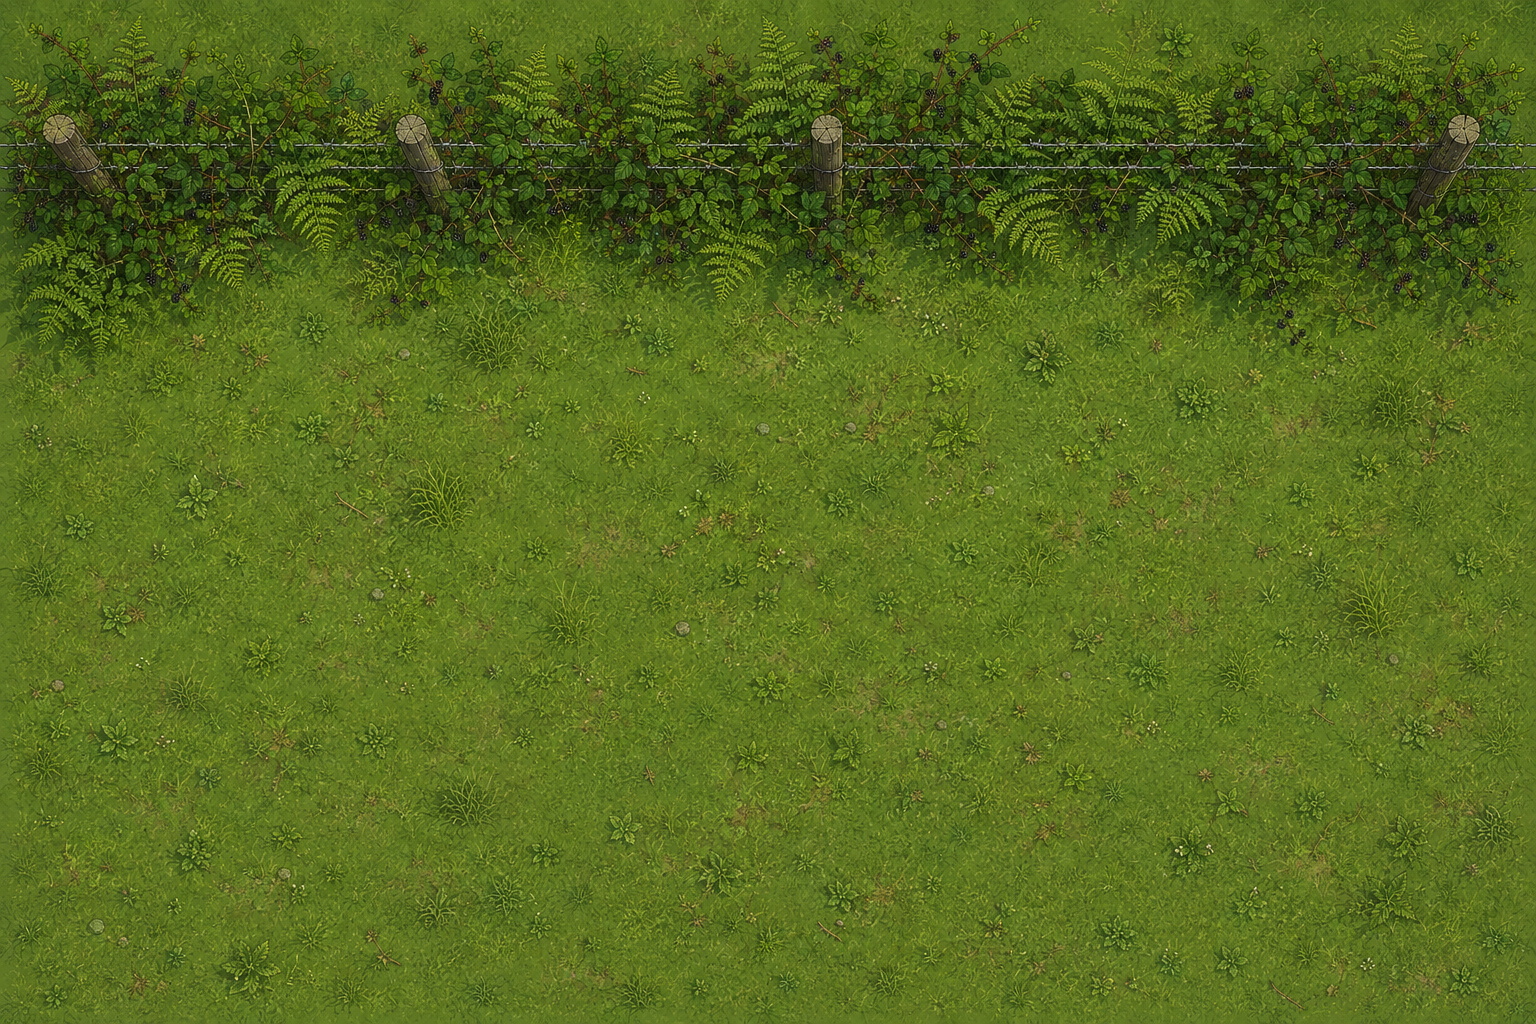
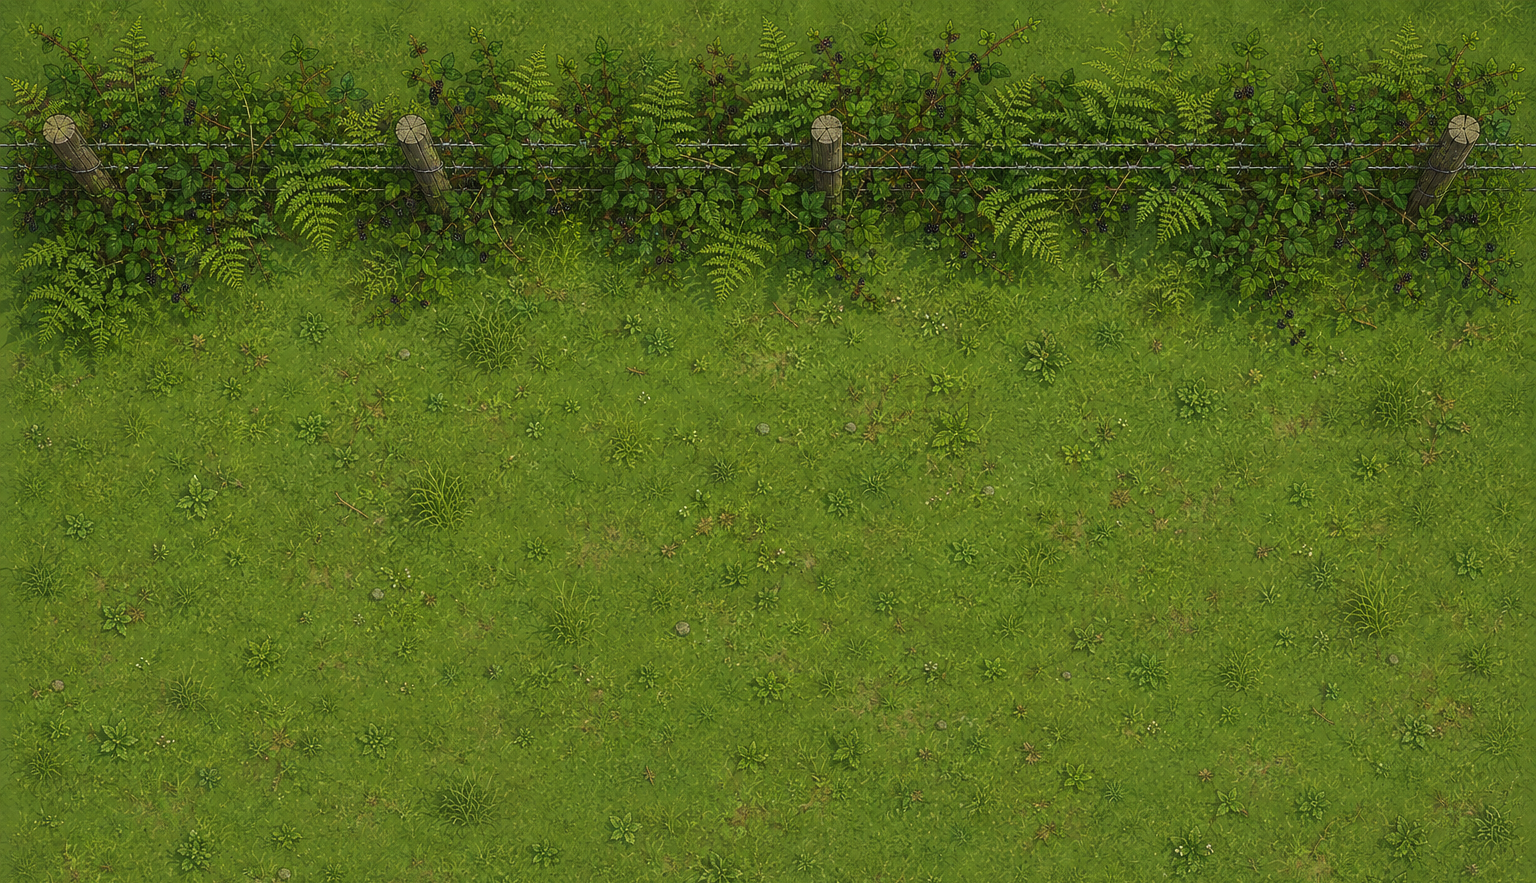
Konponketa estetikoak

diff --git a/public/index.html b/public/index.html
@@ -253,7 +253,7 @@
 
     /* ── APP ── */
     #hdr {
-      height: 46px;
+      height: 50px;
       flex-shrink: 0;
       background: var(--bark);
       color: #fff;
@@ -266,9 +266,9 @@
 
     .hlogo {
       font-family: "ADLaM Display", system-ui;
-      font-size: 20px;
+      font-size: 30px;
       font-weight: 700;
-      letter-spacing: -.4px;
+      letter-spacing: 1px;
       flex: 1
     }
 
@@ -299,7 +299,7 @@
     #sb {
       width: 200px;
       flex-shrink: 0;
-      background: #fff;
+      background: #ffed90;
       border-right: 1px solid var(--border);
       display: flex;
       flex-direction: column;
@@ -396,7 +396,7 @@
     #cv-wrap {
       flex: 1;
       overflow: auto;
-      background: #4A6E2A;
+      background: transparent;
       -webkit-overflow-scrolling: touch;
       display: flex;
       align-items: center;
@@ -454,7 +454,7 @@
       width: var(--cell);
       height: var(--cell);
       flex-shrink: 0;
-      border: .5px solid rgba(255, 255, 255, .07);
+      border: .5px solid rgba(0, 0, 0, 0.35);
       display: flex;
       align-items: center;
       justify-content: center;
@@ -1106,7 +1106,7 @@
   <!-- APP -->
   <div id="scr-app" class="scr" style="display:none">
     <header id="hdr">
-      <span class="hlogo">🐝 Erlekide</span>
+      <span class="hlogo">Erlekide</span>
       <span class="ubadge" id="ubadge">—</span>
       <button class="btn sm" style="background:rgba(255,255,255,.12);border-color:rgba(255,255,255,.2);color:#fff"
         onclick="doLogout()">Irten</button>
